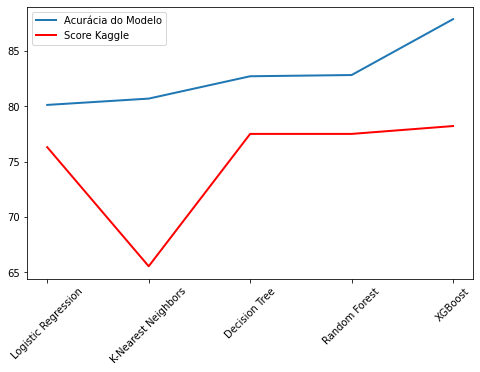
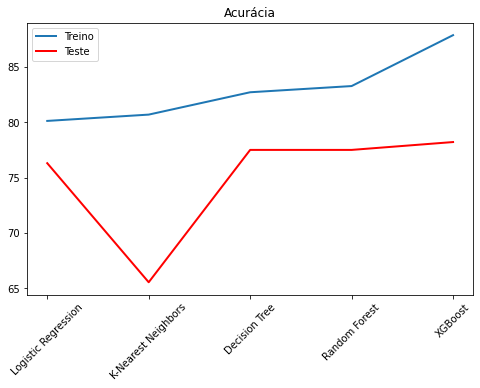
titanic parte II

diff --git a/titanicparteII/README.md b/titanicparteII/README.md
@@ -456,7 +456,7 @@ acc_rf = round(rf_model.score(train, target) *100, 2)
 print(f"Acurácia do modelo de Floresta Aleatória: {(acc_rf)}")
 ```
 
-    Acurácia do modelo de Floresta Aleatória: 82.83
+    Acurácia do modelo de Floresta Aleatória: 83.28
     
 
 
@@ -626,13 +626,13 @@ O modelo apresentou no Kaggle uma acurácia de 78%.
 ```python
 # comparação dos resultados
 
-resultado = pd.DataFrame({
+acuracia = pd.DataFrame({
         "MODELO": ['Logistic Regression', 'K-Nearest Neighbors', 'Decision Tree', 'Random Forest', 'XGBoost'],
-        "ACURACIA_DO_MODELO": [acc_logReg, acc_knn, acc_tree, acc_rf, acc_xgb], 
-        "SCORE_KAGGLE": [76.31, 65.55, 77.51, 77.51, 78.22]
+        "TREINO": [acc_logReg, acc_knn, acc_tree, acc_rf, acc_xgb], 
+        "TESTE": [76.31, 65.55, 77.51, 77.51, 78.22]
       })
 
-resultado
+acuracia
 ```
 
 
@@ -657,8 +657,8 @@ resultado
     <tr style="text-align: right;">
       <th></th>
       <th>MODELO</th>
-      <th>ACURACIA_DO_MODELO</th>
-      <th>SCORE_KAGGLE</th>
+      <th>TREINO</th>
+      <th>TESTE</th>
     </tr>
   </thead>
   <tbody>
@@ -683,7 +683,7 @@ resultado
     <tr>
       <th>3</th>
       <td>Random Forest</td>
-      <td>82.83</td>
+      <td>83.28</td>
       <td>77.51</td>
     </tr>
     <tr>
@@ -701,16 +701,17 @@ resultado
 
 ```python
 plt.figure(figsize=(8, 5))
-plt.plot(resultado['MODELO'], resultado['ACURACIA_DO_MODELO'], 
-         label='Acurácia do Modelo',
+plt.plot(acuracia['MODELO'], acuracia['TREINO'], 
+         label='Treino',
          linewidth=2.0)
-plt.plot(resultado['MODELO'], resultado['SCORE_KAGGLE'], 
+plt.plot(acuracia['MODELO'], acuracia['TESTE'], 
          color='red',   
          linewidth=2.0,
-         label='Score Kaggle' 
+         label='Teste' 
         )
 plt.xticks(rotation=45)
 plt.legend()
+plt.title('Acurácia')
 plt.savefig('comparacao.png', dpi = 300)
 ```
 
